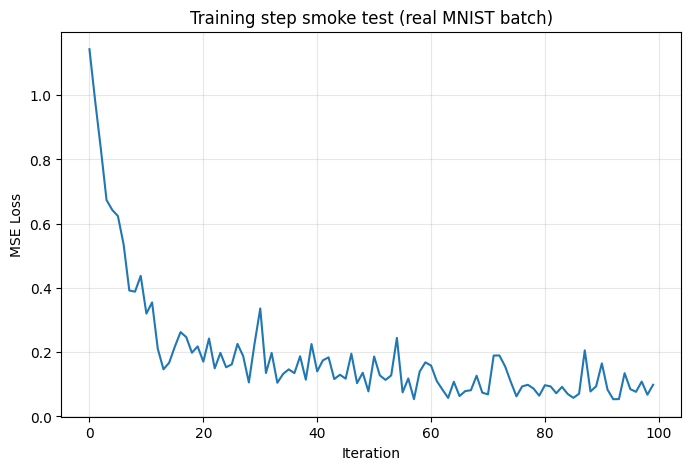
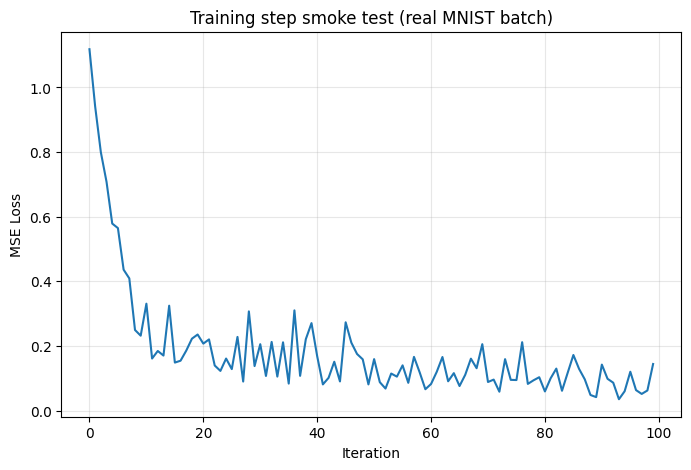
Add checkpoint loader script and Day 7-8 loss curves

diff --git a/check_checkpoint.py b/check_checkpoint.py
@@ -1,0 +1,16 @@
+# check_checkpoint.py
+import torch
+from unet import UNet
+
+ckpt = torch.load('checkpoints/mnist_10epoch.pt', map_location='cpu')
+
+print(f"Saved epoch: {ckpt['epoch']}")
+print(f"Final epoch loss: {ckpt['history']['epoch_losses'][-1]:.4f}")
+print(f"Total iterations recorded: {len(ckpt['history']['iter_losses']):,}")
+
+unet = UNet(
+    image_channels=1, n_channels=64, ch_mults=(1, 2, 4), time_channels=64 * 4,
+)
+unet.load_state_dict(ckpt['model_state_dict'])
+print("Checkpoint loaded successfully ✓")
+print(f"Model parameters: {sum(p.numel() for p in unet.parameters()):,}")